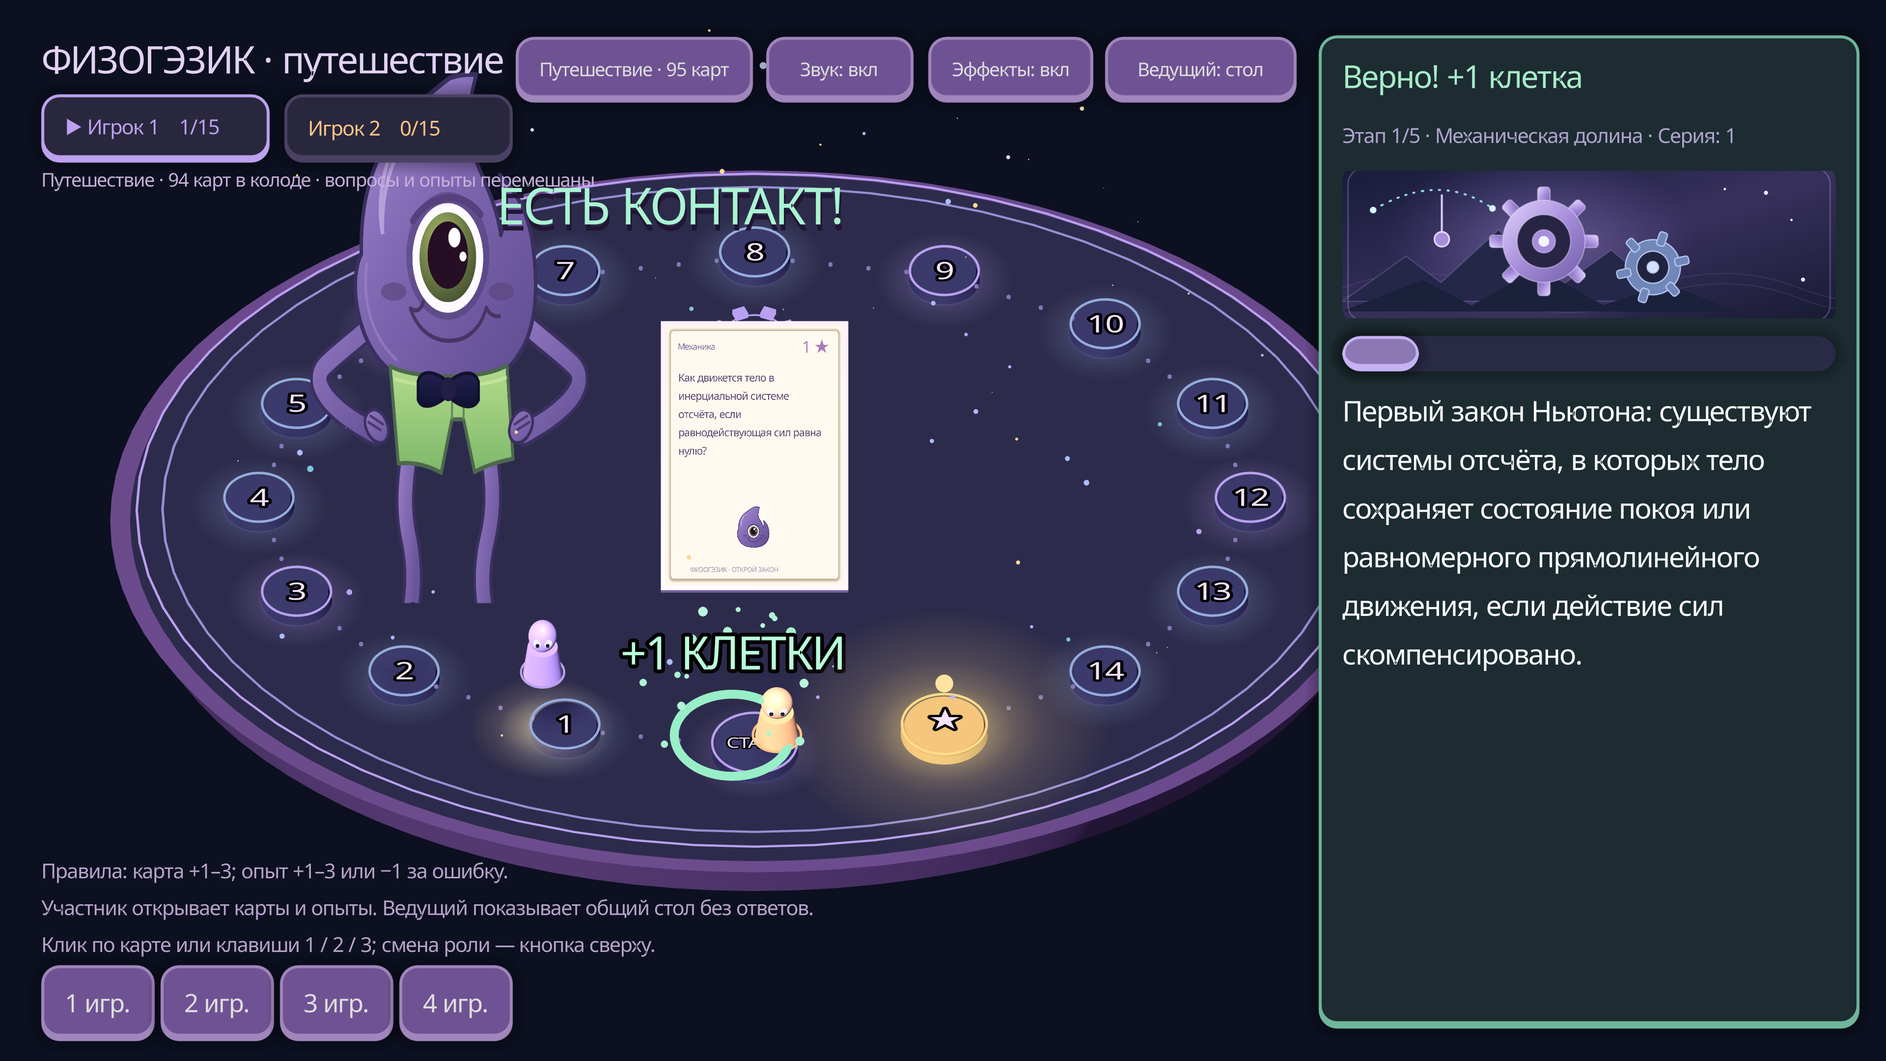
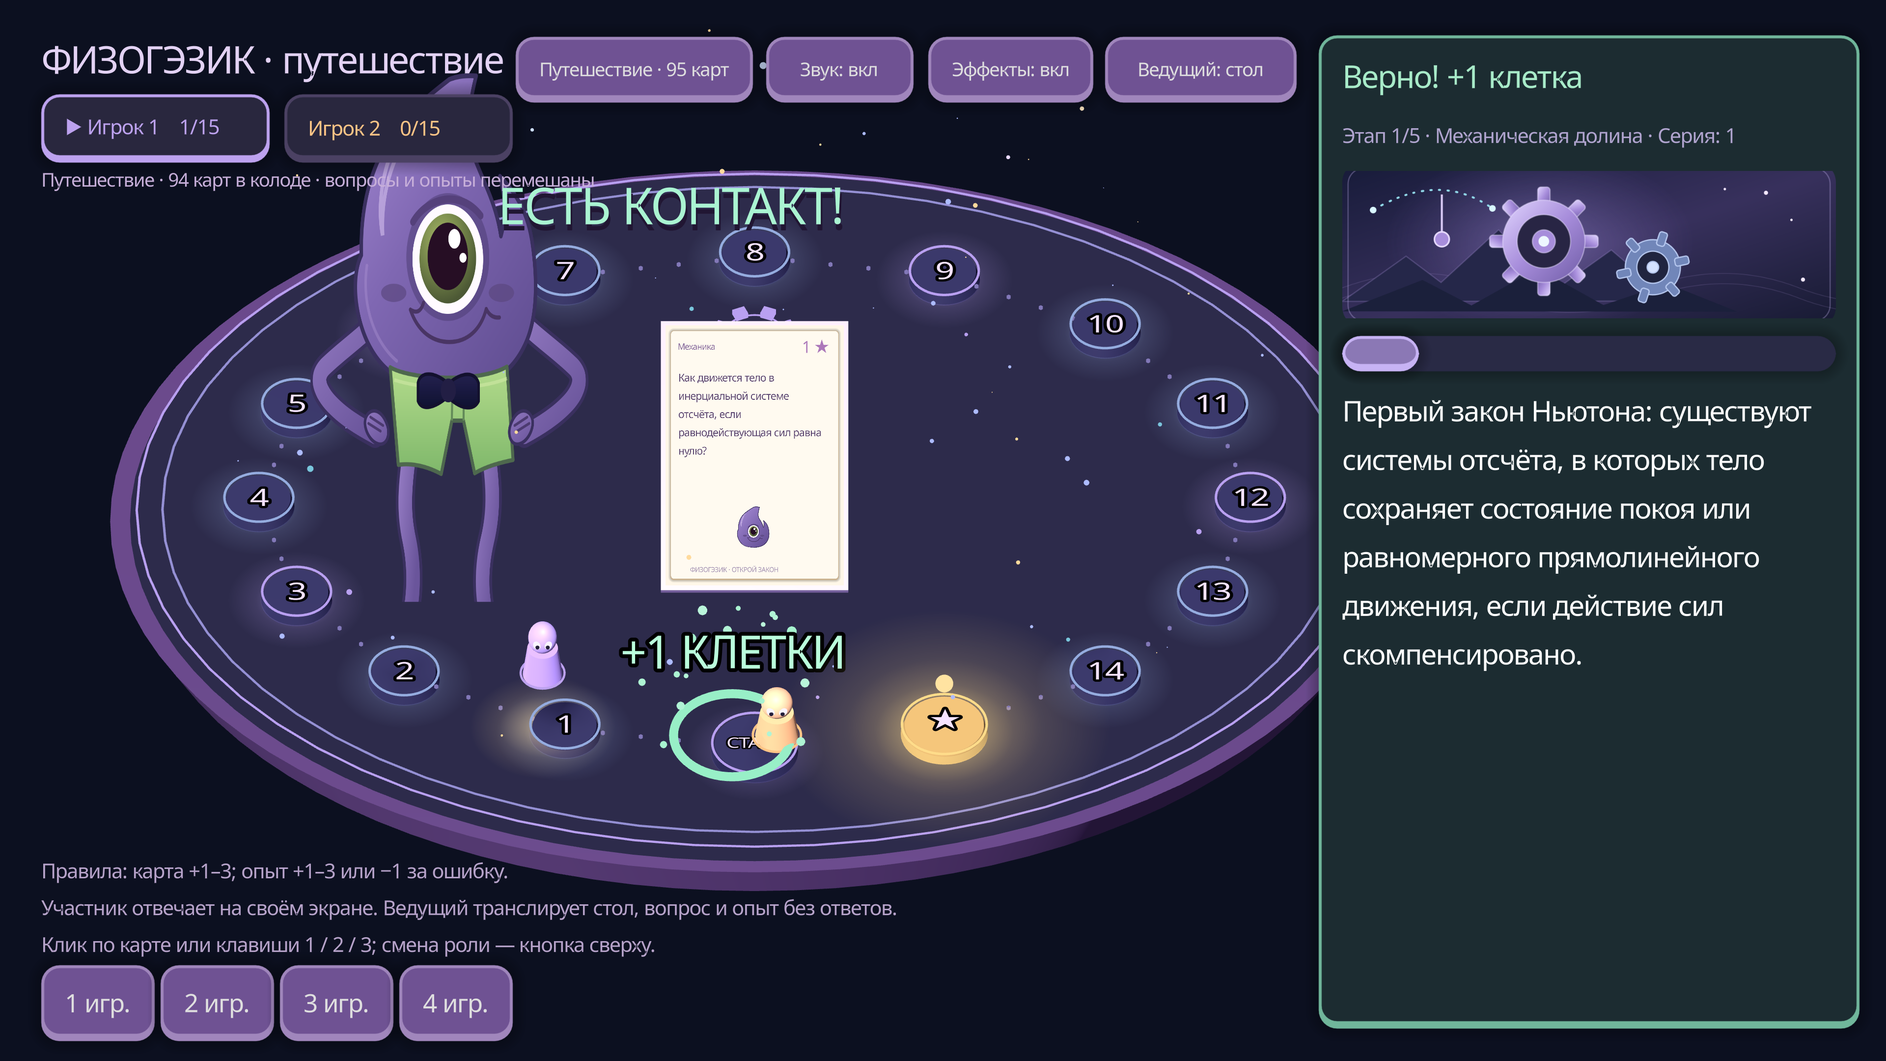
Add mobile participant and shared host experiment views

diff --git a/Godot3D/web_shell.html b/Godot3D/web_shell.html
@@ -7,7 +7,7 @@
   <title>Физогэзик · Godot 3D в браузере</title>
   $GODOT_HEAD_INCLUDE
   <style>
-    *{box-sizing:border-box}html,body{margin:0;min-height:100%;background:#0c1020;color:#ebdff8;font-family:"Segoe UI",Arial,sans-serif}body{height:100dvh;display:flex;flex-direction:column;overflow:hidden}a{color:inherit;text-decoration:none}button{font:inherit;cursor:pointer}button:focus-visible,a:focus-visible{outline:3px solid #aee9d2;outline-offset:4px}.bar{height:60px;display:flex;align-items:center;gap:20px;padding:0 25px;border-bottom:1px solid #76609142;background:#141426;flex-shrink:0}.back{font-size:13px;color:#bca6d0}.brand{font-size:16px;font-weight:750;letter-spacing:-.3px}.tag{font-size:10px;color:#8fb8ca;border:1px solid #8ab5cc44;border-radius:6px;padding:4px 7px}.full{margin-left:auto;background:#29243e;border:1px solid #6c5688;border-radius:8px;color:#d6bfea;padding:8px 12px;font-size:12px}.main{flex:1;display:flex;padding:12px;min-height:0}.stage{position:relative;flex:1;width:auto;height:auto;min-width:0;min-height:0;aspect-ratio:auto;border:1px solid #6a52873f;border-radius:16px;overflow:hidden;background:#101020;box-shadow:0 12px 65px #0005}canvas{display:block!important;width:100%!important;height:100%!important;outline:none;touch-action:none}.gate{position:absolute;inset:0;z-index:2;display:flex;flex-direction:column;align-items:center;justify-content:center;text-align:center;padding:25px;background:radial-gradient(ellipse at 50% 35%,#312444,#101020 75%)}.gate[hidden]{display:none}.emblem{font-size:62px;color:#e0b96c;filter:drop-shadow(0 0 25px #f6d98544);margin-bottom:15px}.gate h1{font-size:clamp(25px,4vw,48px);letter-spacing:-1.5px;margin:0 0 14px;line-height:1.1}.gate p{font-size:13px;line-height:1.8;max-width:450px;color:#b09abe;margin:0 auto 20px}.launch{color:#f7eeff;background:#8360ab;border:2px solid #a988ca;border-bottom:6px solid #513471;padding:14px 27px;border-radius:13px;font-weight:700;font-size:16px;min-height:54px}.launch:hover{background:#9873bf}.launch:disabled{opacity:.6;cursor:wait}.meter{width:min(330px,90%);height:12px;margin-top:22px;accent-color:#bb92e7}.status{font-size:11px;color:#c1a5d4;line-height:1.7;max-width:500px;white-space:pre-wrap;margin-top:11px}.fallback{font-size:12px;color:#cfb6e2;text-decoration:underline;text-underline-offset:4px;margin-top:20px}.foot{min-height:35px;display:flex;justify-content:space-between;gap:15px;align-items:center;font-size:10px;color:#7e7293;padding:0 25px 12px}.state{color:#9b86b1}.stage:fullscreen{width:100vw;height:100dvh;aspect-ratio:auto;border:0;border-radius:0;background:#0c1020;display:block}.stage:fullscreen canvas{width:100vw!important;height:100dvh!important}.stage:fullscreen .gate{inset:0}@media(max-width:650px){.bar{height:54px;padding:0 14px;gap:11px}.back{font-size:11px}.brand{font-size:13px}.tag{display:none}.full{font-size:10px;padding:7px 9px}.main{padding:7px}.stage{border-radius:10px}.foot{padding:10px 14px;font-size:8px;line-height:1.7;flex-wrap:wrap}.gate{padding:12px}.emblem{font-size:29px;margin-bottom:6px}.gate h1{font-size:24px;margin-bottom:9px}.gate p{font-size:10px;line-height:1.6;margin-bottom:12px;max-width:300px}.launch{font-size:12px;padding:10px 17px;min-height:40px;border-radius:10px}.status{font-size:9px}.meter{margin-top:13px;height:8px}.fallback{font-size:10px;margin-top:12px}}
+    *{box-sizing:border-box}html,body{margin:0;min-height:100%;background:#0c1020;color:#ebdff8;font-family:"Segoe UI",Arial,sans-serif}body{height:100dvh;display:flex;flex-direction:column;overflow:hidden}a{color:inherit;text-decoration:none}button{font:inherit;cursor:pointer}button:focus-visible,a:focus-visible{outline:3px solid #aee9d2;outline-offset:4px}.bar{height:60px;display:flex;align-items:center;gap:20px;padding:0 25px;border-bottom:1px solid #76609142;background:#141426;flex-shrink:0}.back{font-size:13px;color:#bca6d0}.brand{font-size:16px;font-weight:750;letter-spacing:-.3px}.tag{font-size:10px;color:#8fb8ca;border:1px solid #8ab5cc44;border-radius:6px;padding:4px 7px}.full{margin-left:auto;background:#29243e;border:1px solid #6c5688;border-radius:8px;color:#d6bfea;padding:8px 12px;font-size:12px}.main{flex:1;display:flex;padding:12px;min-height:0}.stage{position:relative;flex:1;width:auto;height:auto;min-width:0;min-height:0;aspect-ratio:auto;border:1px solid #6a52873f;border-radius:16px;overflow:hidden;background:#101020;box-shadow:0 12px 65px #0005}canvas{display:block!important;width:100%!important;height:100%!important;outline:none;touch-action:none}.gate{position:absolute;inset:0;z-index:2;display:flex;flex-direction:column;align-items:center;justify-content:center;text-align:center;padding:25px;background:radial-gradient(ellipse at 50% 35%,#312444,#101020 75%)}.gate[hidden]{display:none}.emblem{font-size:62px;color:#e0b96c;filter:drop-shadow(0 0 25px #f6d98544);margin-bottom:15px}.gate h1{font-size:clamp(25px,4vw,48px);letter-spacing:-1.5px;margin:0 0 14px;line-height:1.1}.gate p{font-size:13px;line-height:1.8;max-width:450px;color:#b09abe;margin:0 auto 20px}.launch{color:#f7eeff;background:#8360ab;border:2px solid #a988ca;border-bottom:6px solid #513471;padding:14px 27px;border-radius:13px;font-weight:700;font-size:16px;min-height:54px}.launch:hover{background:#9873bf}.launch:disabled{opacity:.6;cursor:wait}.meter{width:min(330px,90%);height:12px;margin-top:22px;accent-color:#bb92e7}.status{font-size:11px;color:#c1a5d4;line-height:1.7;max-width:500px;white-space:pre-wrap;margin-top:11px}.fallback{font-size:12px;color:#cfb6e2;text-decoration:underline;text-underline-offset:4px;margin-top:20px}.foot{min-height:35px;display:flex;justify-content:space-between;gap:15px;align-items:center;font-size:10px;color:#7e7293;padding:0 25px 12px}.state{color:#9b86b1}.stage:fullscreen{width:100vw;height:100dvh;aspect-ratio:auto;border:0;border-radius:0;background:#0c1020;display:block}.stage:fullscreen canvas{width:100vw!important;height:100dvh!important}.stage:fullscreen .gate{inset:0}@media(max-width:650px){.bar{height:48px;padding:0 12px;gap:10px}.back{font-size:11px}.brand,.tag{display:none}.full{font-size:10px;padding:7px 9px}.main{padding:0}.stage{border:0;border-radius:0}.foot{display:none}.gate{padding:12px}.emblem{font-size:29px;margin-bottom:6px}.gate h1{font-size:24px;margin-bottom:9px}.gate p{font-size:10px;line-height:1.6;margin-bottom:12px;max-width:300px}.launch{font-size:12px;padding:10px 17px;min-height:40px;border-radius:10px}.status{font-size:9px}.meter{margin-top:13px;height:8px}.fallback{font-size:10px;margin-top:12px}}
     .bar,.foot{position:relative;z-index:5}.main{position:relative;z-index:1}
   </style>
 </head>

diff --git a/tools/check_webgl.py b/tools/check_webgl.py
@@ -74,21 +74,22 @@ try:
 
         def state():return page.evaluate('window.physogezicGameState')
         def click_control(text):
-            data=state();control=next((c for c in data['controls'] if c['text']==text),None)
-            assert control is not None,(text,data['controls'])
             box=page.locator('#canvas').bounding_box();assert box
-            x,y,w,h=control['rect'];vw,vh=data['viewport']
-            if y+h>vh or y<0:
-                page.mouse.move(box['x']+box['width']*.84,box['y']+box['height']*.72)
-                page.mouse.wheel(0,550 if y+h>vh else -550)
-                page.wait_for_timeout(350)
-                data=state();control=next(c for c in data['controls'] if c['text']==text)
+            for scroll_attempt in range(8):
+                data=state();control=next((c for c in data['controls'] if c['text']==text),None)
+                assert control is not None,(text,data['controls'])
                 x,y,w,h=control['rect'];vw,vh=data['viewport']
-            page.locator('#canvas').click(position={'x':(x+w/2)/vw*box['width'],'y':(y+h/2)/vh*box['height']})
+                if y>=0 and y+h<=vh:break
+                page.mouse.move(box['x']+box['width']*.84,box['y']+box['height']*.72)
+                page.mouse.wheel(0,420 if y+h>vh else -420)
+                page.wait_for_timeout(300)
+            else:raise AssertionError(f'Control did not scroll into view: {text}')
+            page.mouse.click(box['x']+(x+w/2)/vw*box['width'],box['y']+(y+h/2)/vh*box['height'])
 
         click_control('Ведущий: стол')
         page.wait_for_function('window.physogezicGameState.hostMode===true')
         assert not any(c['text'].startswith('Открыть карту') for c in state()['controls'])
+        assert not state()['sharedContent']
         page.screenshot(path=str(OUT/'godot-host-table.png'),full_page=True)
         click_control('Участник: карты')
         page.wait_for_function('window.physogezicGameState.hostMode===false')
@@ -98,6 +99,12 @@ try:
         page.wait_for_function('window.physogezicGameState.phase==="answer"',timeout=20000)
         card=state();assert card['remaining']==94
         page.screenshot(path=str(OUT/'godot-webgl-card.png'),full_page=True)
+        click_control('Ведущий: стол')
+        page.wait_for_function('window.physogezicGameState.hostMode===true && window.physogezicGameState.sharedContent===true')
+        assert not any(c['text']=='Пока не знаю' for c in state()['controls']),'Host must not receive answer controls'
+        page.screenshot(path=str(OUT/'godot-host-question.png'),full_page=True)
+        click_control('Участник: карты')
+        page.wait_for_function('window.physogezicGameState.hostMode===false')
         if card['question']['type']=='match':
             click_control('Проверить переходы')
         else:
@@ -147,6 +154,36 @@ try:
         page.set_viewport_size({'width':1280,'height':720})
         page.wait_for_timeout(500)
         page.screenshot(path=str(OUT/'godot-lab-1280x720.png'),full_page=True)
+        click_control('Ведущий: стол')
+        page.wait_for_function('window.physogezicGameState.hostMode===true && window.physogezicGameState.sharedContent===true')
+        assert state()['labVisible'],'Host must broadcast the actual 3D laboratory'
+        assert not any(c['text']=='Пока не знаю' for c in state()['controls'])
+        page.screenshot(path=str(OUT/'godot-host-lab.png'),full_page=True)
+        click_control('Участник: карты')
+        page.wait_for_function('window.physogezicGameState.hostMode===false && window.physogezicGameState.labVisible===true')
+        print('HOST_SHARED_LAB_PASS:',state()['question']['id'])
+        for width,height in ((360,800),(390,844),(768,1024)):
+            page.set_viewport_size({'width':width,'height':height})
+            page.wait_for_function('window.physogezicGameState.mobileLayout===true && window.physogezicGameState.labVisible===true')
+            page.wait_for_timeout(400)
+            data=state();vw,vh=data['viewport']
+            assert vw<=700 and vh<=1000,(width,height,data['viewport'],'Desktop logical scale leaked into portrait')
+            for control in data['controls']:
+                if control['text']=='Стол учителя' or control['text'].endswith(' игр.'):
+                    x,y,w,h=control['rect']
+                    assert x>=0 and y>=0 and x+w<=vw+1 and y+h<=vh+1,(width,height,control,data['viewport'])
+            page.screenshot(path=str(OUT/f'godot-mobile-lab-{width}x{height}.png'),full_page=True)
+            print('MOBILE_LAB_PASS:',width,height,data['viewport'])
+        click_control('Пока не знаю')
+        page.wait_for_function('window.physogezicGameState.phase==="feedback"',timeout=20000)
+        click_control('Продолжить путь →')
+        page.wait_for_function('window.physogezicGameState.phase==="draw"',timeout=20000)
+        page.screenshot(path=str(OUT/'godot-mobile-participant-768x1024.png'),full_page=True)
+        click_control('Открыть карту 1')
+        page.wait_for_function('window.physogezicGameState.phase==="answer"',timeout=20000)
+        assert state()['mobileLayout']
+        page.screenshot(path=str(OUT/'godot-mobile-answer-768x1024.png'),full_page=True)
+        print('MOBILE_PARTICIPANT_INPUT_PASS')
         print('RESPONSIVE_LAB_PASS:',state()['question']['id'])
         errors=page.evaluate('window.physogezicErrors')
         assert not errors,errors

diff --git a/tools/check_godot.py b/tools/check_godot.py
@@ -58,5 +58,9 @@ if args.screenshots:
     environment={**os.environ,'FIZ_CAPTURE':str(target).replace('\\','/'),'FIZ_HOST':'1'}
     run(['--rendering-method','gl_compatibility','--','--capture'],'GODOT_CAPTURE',environment)
     verify_capture('host-table',target)
+    target=out/'host-lab-prism.png'
+    environment={**os.environ,'FIZ_CAPTURE':str(target).replace('\\','/'),'FIZ_HOST':'1','FIZ_LAB_ANIM':'prism'}
+    run(['--rendering-method','gl_compatibility','--','--capture','--capture-lab'],'GODOT_CAPTURE',environment)
+    verify_capture('host-lab-prism',target)
     print('Rendered native 4K screenshots:',out)
 print('Godot gameplay, 50 experiments, five stage identities and host/participant checks passed.')

diff --git a/Godot3D/README.md b/Godot3D/README.md
@@ -39,8 +39,8 @@ godot --path Godot3D
 ## Как играть
 
 - Выберите 1–4 путешественников кнопками внизу слева. Лаборатория уже входит в общую колоду.
-- **Ведущий:** кнопка «Ведущий: стол» открывает центрированный общий стол с маршрутом, фишками, очками и этапами. Карты, лабораторная установка, вопрос и ответы скрыты, чтобы стол можно было показывать всем.
-- **Участник:** кнопка «Участник: карты» возвращает карточки, варианты ответов и 3D-опыты. Переключение роли сохраняет текущий ход и открытую карту. Это локальное переключение представлений на одном компьютере, не сетевая комната.
+- **Ведущий на ПК:** кнопка «Ведущий: стол» открывает общий стол с маршрутом, фишками, очками и этапами. После хода участника на общем экране появляются исходный вопрос и 3D-лаборатория для трансляции всем. Варианты, объяснение и правильный ответ на экране ведущего не показываются.
+- **Участник:** кнопка «Участник: карты» возвращает карточки, варианты ответов и 3D-опыты. На телефоне и планшете включается портретная компоновка: крупная карта или установка сверху, вопрос и сенсорные ответы снизу; видеть общий стол не требуется. Переключение роли сохраняет текущий ход и открытую карту. Это локальное переключение представлений на одном устройстве, не сетевая комната.
 - В свой ход кликните закрытую карту на столе, нажмите 1/2/3 или кнопку справа. Заранее неизвестно, будет это вопрос или опыт.
 - Карта перевернётся. Вопрос и варианты появятся на панели; у опыта также откроется объёмная установка.
 - Ответьте: фишка проходит ровно 1, 2 или 3 клетки по стоимости карты. При ошибке в обычной карте она остаётся на месте, а в опыте возвращается на одну клетку, но не дальше старта.
@@ -68,13 +68,13 @@ python tools/check_godot.py --godot godot --screenshots
 
 ![Лаборатория призмы в 4K](../docs/images/godot-4k/lab-prism.png)
 
-Семнадцать состояний, включая пять лабораторных установок, пять обложек этапов и общий стол ведущего, отрендерены в **3840×2160** и сохранены в `../docs/images/godot-4k/`. Скрипт проверяет размер каждого PNG, а также отсутствие ошибок Godot.
+Восемнадцать состояний, включая пять лабораторных установок, пять обложек этапов, общий стол и общий опыт ведущего, отрендерены в **3840×2160** и сохранены в `../docs/images/godot-4k/`. Скрипт проверяет размер каждого PNG, а также отсутствие ошибок Godot. Реальный WebGL дополнительно проверяется на телефонах 360×800 и 390×844, планшете 768×1024, десктопах и 4K; отдельно подтверждаются мобильный ввод и отсутствие ответов на общем экране.
 
 ## Журнал
 
 `journal.gd` ведёт `user://logs/game.log`. Файл очищается каждый час, в том числе при входе в новый час после перезапуска. Постоянное стандартное файловое логирование движка отключено, чтобы не накапливать параллельные журналы. Очистка журнала не меняет счёт, очередь или фазу игры.
 
-Основная веб-версия содержит сетевые комнаты, телефоны, математическую вёрстку и сохранения. Этот 3D-проект предназначен для игры за одним компьютером.
+Основная веб-версия содержит сетевые комнаты, телефоны, математическую вёрстку и сохранения. В 3D-проекте режимы ведущего и участника переключаются локально на одном устройстве; синхронизации между телефоном ученика и компьютером учителя пока нет.
 
 ## Файлы
 
